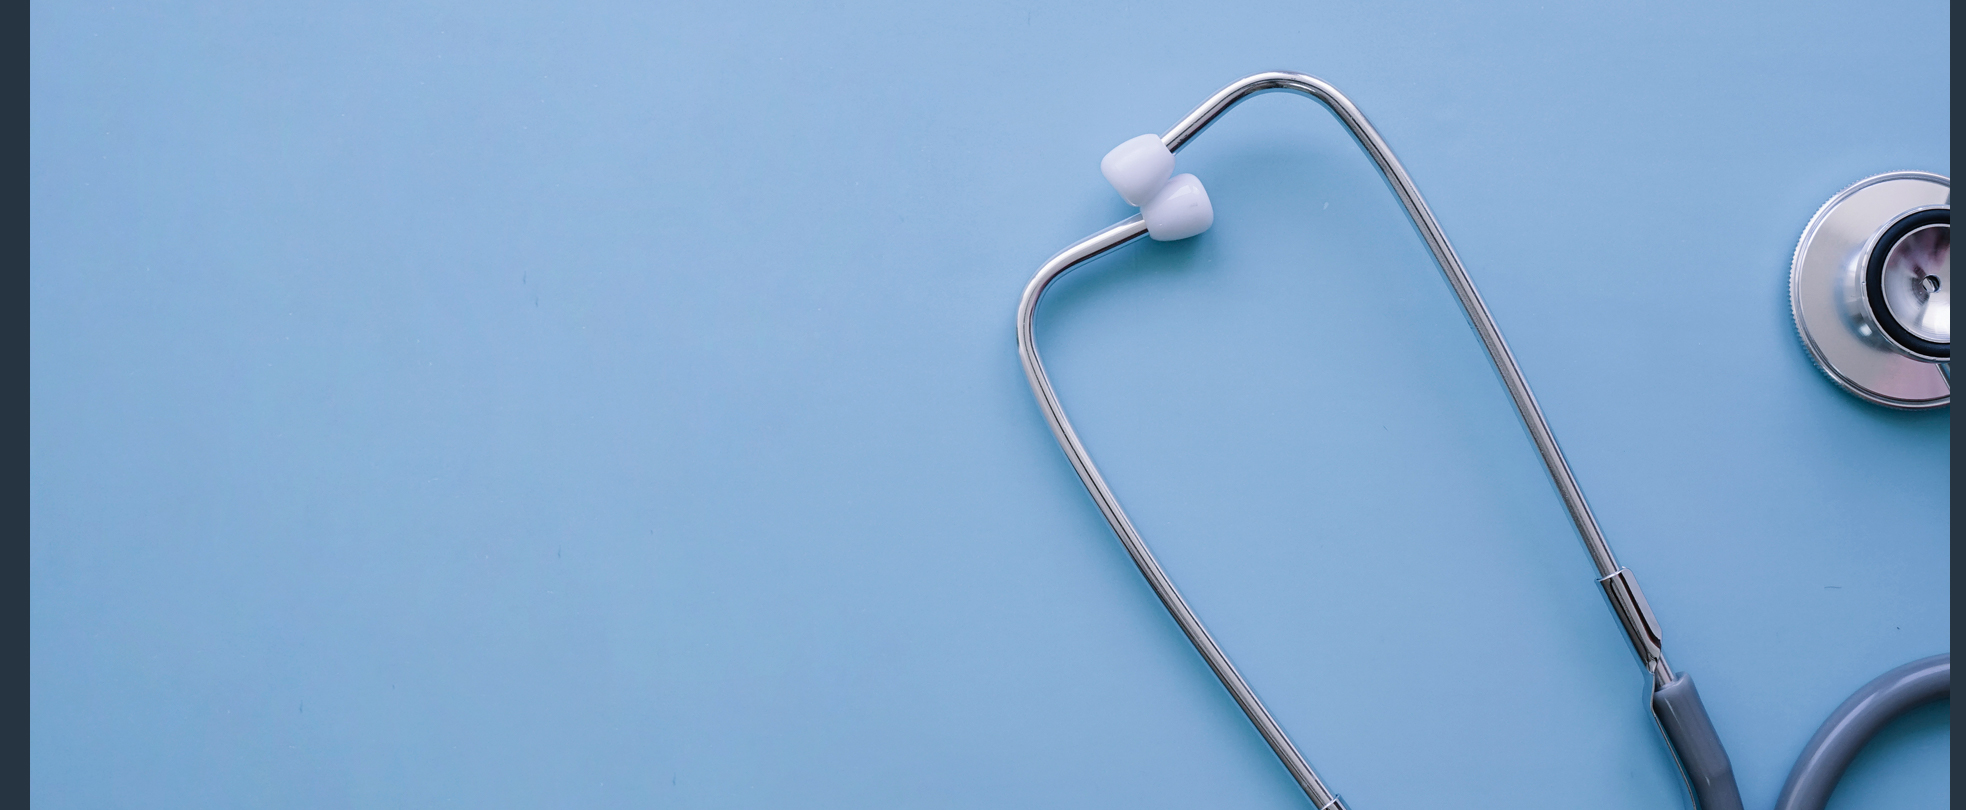
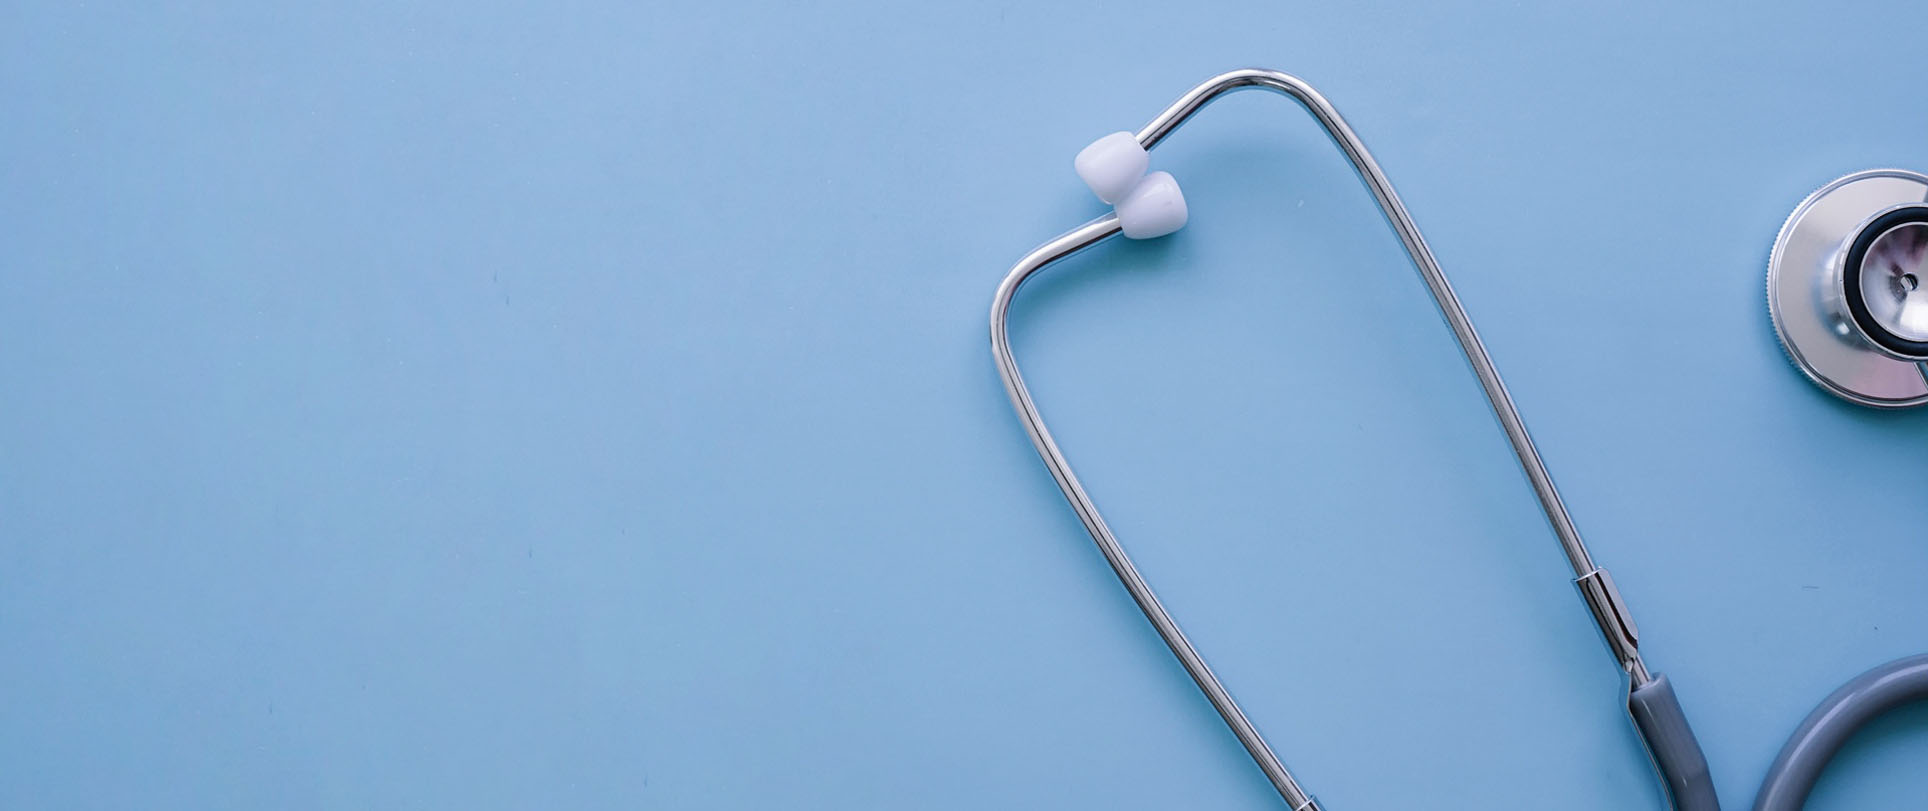
Немного адаптировал проект

diff --git a/src/components/footer/footer.css b/src/components/footer/footer.css
@@ -1,6 +1,7 @@
 .footer .footerContent {
     grid-area: fo;
     display: grid;
+    width: 1366px;
     grid-template-columns: repeat(3, 400px);
     background: rgb(2, 0, 36);
     background: linear-gradient(90deg, rgba(2, 0, 36, 1) 0%, rgba(0, 212, 255, 1) 0%, rgba(99, 99, 249, 1) 100%);
@@ -12,17 +13,17 @@
 
 .footer .footerContent .leftFoot {
     display: grid;
-    grid-template-columns: repeat(2, 200px);
+    grid-template-columns: repeat(2, 170px);
 }
 
 .footer .footerContent .rightFoot {
     display: grid;
-    grid-template-columns: repeat(1, 200px);
     grid-auto-rows: minmax(40px, 55px);
 }
 
 .footer .footerContent .leftFoot img {
-    margin-left: 60px;
+    margin-left: 40px;
+    width: 80px;
 }
 
 .footer .footerContent .rightFoot a {

diff --git a/src/components/ticker/ticker.js b/src/components/ticker/ticker.js
@@ -4,9 +4,11 @@ import './ticker.css';
 const Ticker = () => {
     return (
         <div className="ticker">
+            <span>
             <marquee behavior="scroll" direction="left">Уважаемые пациенты! При обращении в медицинский центр вам
                 необходимо предоставить документ удостоверящий личность.
             </marquee>
+                </span>
         </div>
     );
 }

diff --git a/src/components/rewards/rewards.css b/src/components/rewards/rewards.css
@@ -1,12 +1,13 @@
 .rewards {
     grid-area: re;
+    width: 1366px;
     background: rgb(198, 198, 212);
     background: linear-gradient(90deg, rgba(198, 198, 212, 1) 0%, rgba(122, 147, 153, 1) 0%, rgba(251, 251, 251, 1) 0%, rgba(160, 160, 255, 1) 100%);
 }
 
 .itemReward {
     display: grid;
-    grid-template-columns: repeat(5, auto);
+    grid-template-columns: repeat(5, 270px);
     text-align: center;
 }
 

diff --git a/src/App.css b/src/App.css
@@ -1,7 +1,7 @@
 .wrapper {
     display: grid;
-    width: auto;
     font-family: 'Roboto', serif;
+    grid-template-columns: 1366px;
     grid-template-areas: "he"
     "me"
     "ba"
@@ -12,5 +12,5 @@
     "re"
     "ti"
     "fo";
-    grid-template-rows: 40px 70px 500px 200px 300px 500px 1200px 100px 50px 200px ;
+    grid-template-rows: 40px 70px 500px 200px 300px 500px 1200px 100px 30px 120px ;
 }

diff --git a/src/components/header/header.css b/src/components/header/header.css
@@ -1,7 +1,8 @@
 .header {
     grid-area: he;
     display: grid;
-    grid-template-columns: repeat(4, 1fr);
+    width: 1366px;
+    grid-template-columns: repeat(4, 340px);
     grid-auto-rows: minmax(40px, auto);
     background: rgb(2, 0, 36);
     background: linear-gradient(90deg, rgba(2, 0, 36, 1) 0%, rgba(0, 212, 255, 1) 0%, rgba(99, 99, 249, 1) 100%);

diff --git a/src/components/news/news.css b/src/components/news/news.css
@@ -1,12 +1,12 @@
 .news {
     grid-area: ne;
     display: grid;
-    grid-template-columns: repeat(2, 440px);
+    grid-template-columns: repeat(2, 600px);
     grid-auto-rows: minmax(40px, auto);
     align-items: center;
     align-self: center;
     justify-self: center;
-    grid-gap: 100px;
+    grid-gap: 20px;
 }
 
 .news .firItemNews {

diff --git a/src/components/advantages/advantages.css b/src/components/advantages/advantages.css
@@ -12,7 +12,7 @@
 
 .advLogo {
     display: grid;
-    grid-template-columns: repeat(1, 500px);
+    grid-template-columns: repeat( 1, 500px);
     grid-auto-rows: minmax(20px, 60px);
     margin-bottom: 90px;
 }
@@ -29,6 +29,6 @@
 }
 
 .advImg img {
-    width: 1440px;
+    width: 1366px;
     height: 500px;
 }

diff --git a/src/components/menu/menu.css b/src/components/menu/menu.css
@@ -3,7 +3,7 @@
     display: grid;
     text-transform: uppercase;
     font-family: 'Lato Regular', serif;
-    grid-template-columns: repeat(5, 1fr);
+    grid-template-columns: repeat(5, 270px);
     grid-auto-rows: minmax(40px, auto);
     text-align: center;
     align-items: center;

diff --git a/src/components/service/service.css b/src/components/service/service.css
@@ -1,7 +1,7 @@
 .serviceMenu {
     grid-area: se;
     display: grid;
-    grid-template-columns: repeat(3, 1fr);
+    grid-template-columns: repeat(3, 450px);
     grid-auto-rows: minmax(40px, auto);
     text-align: center;
     align-items: center;

diff --git a/src/components/ticker/ticker.css b/src/components/ticker/ticker.css
@@ -1,3 +1,9 @@
 .ticker {
     grid-area: ti;
+    width: 1366px;
+}
+
+.ticker span {
+    text-align: center;
+    border: 2px solid;
 }

diff --git a/src/components/banner/banner.css b/src/components/banner/banner.css
@@ -46,6 +46,6 @@
 }
 
 .banner img {
-     width: 1440px;
+     width: 1366px;
      height: 500px;
  }

diff --git a/src/components/slider/slider.css b/src/components/slider/slider.css
@@ -1,4 +1,5 @@
 .slider {
     grid-area: sl;
+    width: 1366px;
     background-color: dodgerblue;
 }
